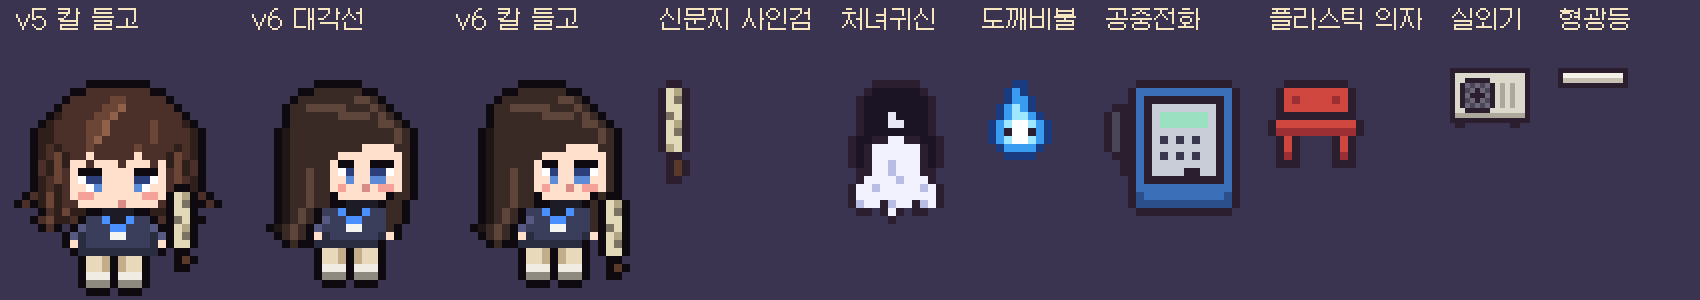
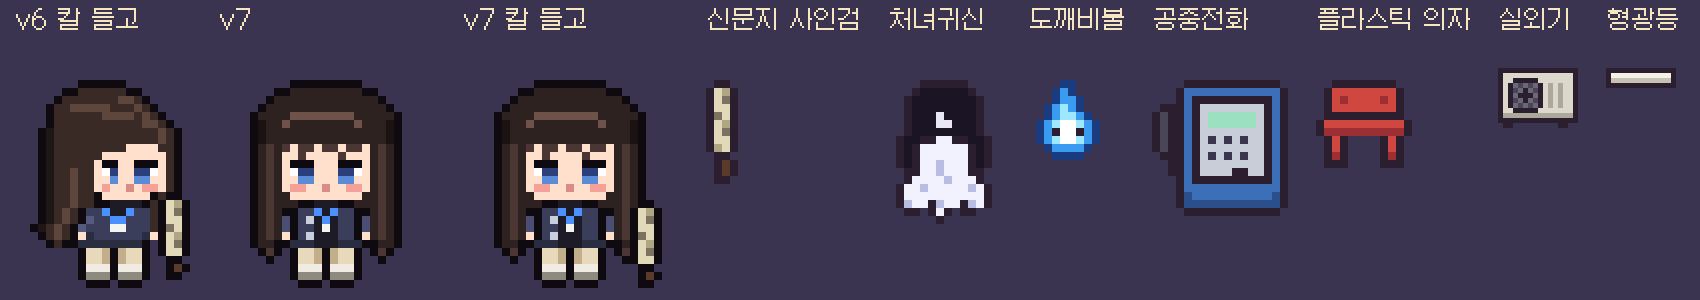
Art lab v7: near-frontal face with hair curtains (Soul Knight ref 4 structure), photo hairstyle, open jacket; 4 facings decided
Claude-Session: https://claude.ai/code/session_014BYZNRo4yeD9gUjFc8b4p2

diff --git a/tools/artlab/v5.js b/tools/artlab/v5.js
@@ -86,10 +86,45 @@ const V6 = [
   '.........OOO.OOO......',
 ];
 
+
+// v7: built like Soul Knight reference 4 — face almost frontal, long hair falling like curtains
+// on both sides with a narrow body between them; light see-through bangs, sleek long straight
+// hair (user photo). Used as the front-diagonal (↘) facing; ↙ is the mirror.
+const V7 = [
+  '.........OOOOOOOOO.........',
+  '.......OOhhhhhhhhhOO.......',
+  '......OhhhhhhhhhhhhhO......',
+  '.....OhhhhhhhhhhhhhhhO.....',
+  '....OhhhhllllllllhhhhhO....',
+  '....OHhhlhhhhhhhhlhhhHO....',
+  '....OHhhhhhhhhhhhhhhhHO....',
+  '....OHhhhhhhhhhhhhhhhHO....',
+  '....OhihiSiiSiiSiiShihO....',
+  '....OhihSSiSSSSiSSShihO....',
+  '....OhihSOOOSSSOOOShihO....',
+  '....OhihSwEESSSEEwShihO....',
+  '....OhihSSeeSSSeeSShihO....',
+  '....OhihSppSSmSSppShihO....',
+  '....OhihhSSSSSSSSShhihO....',
+  '....OhihhhOOTTTOOhhhihO....',
+  '....OhihOOJJ1T1JJOOhihO....',
+  '....OhihkOJyT1TJJOkhihO....',
+  '....OhihkOJJT2TJJOkhihO....',
+  '....OhihSOJyTTTJJOShihO....',
+  '....OhhOOjjjTTTjjjOOhhO....',
+  '.....OiO.O889O988O.OiO.....',
+  '......O..O889O988O..O......',
+  '.........OaaaOaaaO.........',
+  '.........OgggOgggO.........',
+  '..........OOO.OOO..........',
+];
+
 export const V5_SPRITES = {
   v5: { pal: PAL5, rows: V5 },
   swordHand: { pal: PAL5, rows: SWORD_HAND },
   v5s: { base: 'v5', over: [['swordHand', 19, 13]] },
   v6: { pal: { ...PAL5, H: '#1f1716', h: '#3a2a26', i: '#5e463d' }, rows: V6 },
   v6s: { base: 'v6', over: [['swordHand', 18, 14]] },
+  v7: { pal: { ...PAL5, H: '#1a1312', h: '#2e2220', i: '#4a3632', l: '#6e5249', y: '#c9cede', k: '#4a4e70' }, rows: V7 },
+  v7s: { base: 'v7', over: [['swordHand', 21, 15]] },
 };

diff --git a/tools/artlab/lab.html b/tools/artlab/lab.html
@@ -192,8 +192,8 @@ function scene() {
 
 function sheet() {
   const S = 8, pad = 14;
-  const list = ['v5s', 'v6', 'v6s', 'sword', 'cheonyeo', 'wisp', 'payphone', 'chair', 'aircon', 'lamp'];
-  const labels = { v6: 'v6 대각선', v6s: 'v6 칼 들고', v5: 'v5', v5s: 'v5 칼 들고', v4a: 'v4 기본', v4b: 'v4 칼 등에', v4c: 'v4 흑발', directorW: '3차 (비교)', director: '이전 소장', directorM: '철릭 소장 (남)', directorF: '철릭 소장 (여)', sword: '신문지 사인검', cheonyeo: '처녀귀신', wisp: '도깨비불', payphone: '공중전화', chair: '플라스틱 의자', aircon: '실외기', lamp: '형광등' };
+  const list = ['v6s', 'v7', 'v7s', 'sword', 'cheonyeo', 'wisp', 'payphone', 'chair', 'aircon', 'lamp'];
+  const labels = { v7: 'v7', v7s: 'v7 칼 들고', v6: 'v6 대각선', v6s: 'v6 칼 들고', v5: 'v5', v5s: 'v5 칼 들고', v4a: 'v4 기본', v4b: 'v4 칼 등에', v4c: 'v4 흑발', directorW: '3차 (비교)', director: '이전 소장', directorM: '철릭 소장 (남)', directorF: '철릭 소장 (여)', sword: '신문지 사인검', cheonyeo: '처녀귀신', wisp: '도깨비불', payphone: '공중전화', chair: '플라스틱 의자', aircon: '실외기', lamp: '형광등' };
   const out = document.getElementById('sheet');
   out.width = 1700; out.height = 300;
   const o = out.getContext('2d');

diff --git a/HANDOFF.md b/HANDOFF.md
@@ -46,7 +46,7 @@ Old code: action prototype `d170e4b`, turn-based `0278d77`.
 ### Round 5 (2026-10-25): art direction sample
 - User wants chunky pixel art like Soul Knight / Rusty's Retirement (not dense LimeZu/Pokémon-style), worried about editing packs and conveying Seoul.
 - Built `tools/artlab/` (outside the game build): sprites as letter grids in `sprites.js`, `lab.html` renders a lit printing-house basement scene + a sprite sheet, `render.cjs` screenshots it. Galmuri pixel font (OFL) in `tools/artlab/fonts/`. Output in `docs/design/5-business/img/`, notes in `art.md`.
-- v1 feedback: pixel size and lighting OK. v2: director redesigned in a cheollik-style coat, male and female variants (`directorM`, `directorF`), 24px tall. v3: user's own spec — the director is an office worker by day, exorcism office director by night (투잡); sprite `directorW` (bob haircut, ink jacket, ID badge with talisman, crossbag with norigae, beige wide slacks). Docs: protagonist.md (외형), world.md, hub.md (evening hub), module map one-liner, GUIDE. v3 rejected (poor readability). v4 in `tools/artlab/v4.js`: redrawn from rules measured off Soul Knight sprites (dark outline, head ~60%, small face, 2×2 eyes, one accent), variants v4a/v4b (sword on back)/v4c (black hair); lab sprites can now carry their own palette and composites. v4 feedback: ugly legs/eyes, hair not layered, chin shadow read as a beard, why a back sword. v5 in `tools/artlab/v5.js` from reference 4 measured at native pixels (slim legs, thick upper lash eyes, layered strands, no chin shade, sword in hand). v6: long straight hair (user photo) in a 3/4 front-diagonal view; proposed facing scheme = 2 drawings (front-diagonal, back-diagonal) + flips = 4 facings (art.md). Next: user decision on facings + feedback on v6, then the back-diagonal, walk/swing frames and port into `src/scenes/rift/draw/`.
+- v1 feedback: pixel size and lighting OK. v2: director redesigned in a cheollik-style coat, male and female variants (`directorM`, `directorF`), 24px tall. v3: user's own spec — the director is an office worker by day, exorcism office director by night (투잡); sprite `directorW` (bob haircut, ink jacket, ID badge with talisman, crossbag with norigae, beige wide slacks). Docs: protagonist.md (외형), world.md, hub.md (evening hub), module map one-liner, GUIDE. v3 rejected (poor readability). v4 in `tools/artlab/v4.js`: redrawn from rules measured off Soul Knight sprites (dark outline, head ~60%, small face, 2×2 eyes, one accent), variants v4a/v4b (sword on back)/v4c (black hair); lab sprites can now carry their own palette and composites. v4 feedback: ugly legs/eyes, hair not layered, chin shadow read as a beard, why a back sword. v5 in `tools/artlab/v5.js` from reference 4 measured at native pixels (slim legs, thick upper lash eyes, layered strands, no chin shade, sword in hand). v6: long straight hair (user photo) in a 3/4 front-diagonal view; proposed facing scheme = 2 drawings (front-diagonal, back-diagonal) + flips = 4 facings (art.md). Facings decided: 4 (two diagonal drawings + flips). v6 rejected (distorted 3/4, heavy hair). v7 in `tools/artlab/v5.js` follows Soul Knight ref 4 structure (near-frontal face, hair curtains, narrow body) with the user's photo hairstyle. Next: feedback on v7, then the back-diagonal, walk/swing frames and port into `src/scenes/rift/draw/`.
 
 ## Verified
 - Round 4: `npm run check` 45 tests pass. Playwright: new game writes a v1 save on 출동; a hand-written v1 save (money 777, solved 4) shows in the office after reload; keyboard run after the view split renders as before, no page errors.
